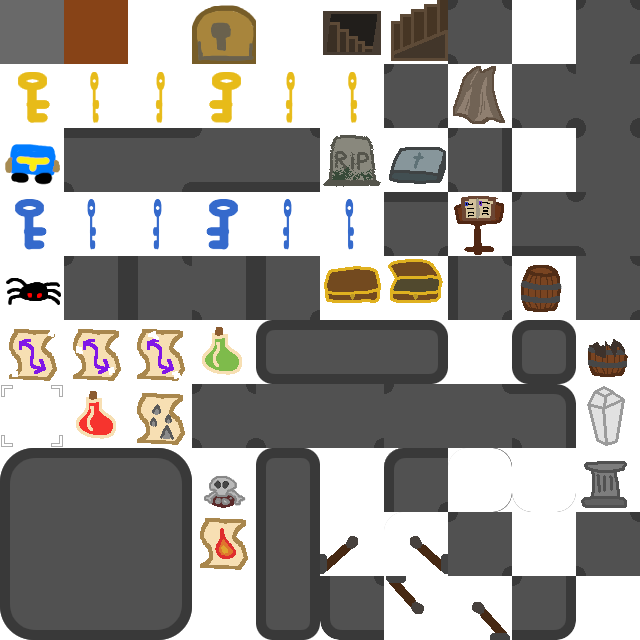
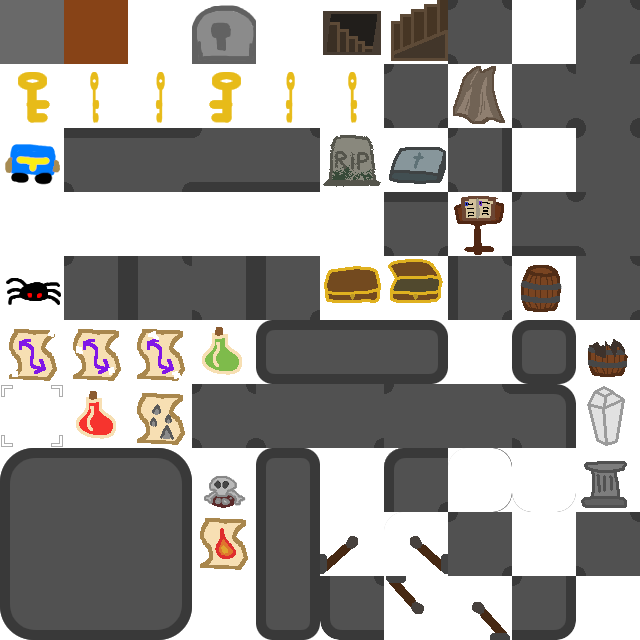
Implemented doors

diff --git a/Items/Inventory.cs b/Items/Inventory.cs
@@ -11,7 +11,7 @@ using Microsoft.Xna.Framework;
 using System.Timers;
 using Myra.Graphics2D;
 using Pandorai.UI;
-using System.Diagnostics;
+using System.Linq;
 
 namespace Pandorai.Items
 {
@@ -379,6 +379,28 @@ namespace Pandorai.Items
             game.Options.AdjustGUI();
         }
 
+        public void RemoveElement(string itemName, int amount = 1)
+		{
+            if (!ContainsItem(itemName)) return;
+
+            var itemEntry = FindItem(itemName);
+
+            itemEntry.Amount -= amount;
+            int index = Items.IndexOf(itemEntry);
+
+            if (itemEntry.Amount <= 0)
+			{
+                ReplaceSlot(new EmptyItem(), 1, index);
+			}
+
+            if (Owner == Owner.game.Player.PossessedCreature)
+            {
+                DisplayAsMainInventory();
+            }
+            Sidekick.DisplaySlots();
+            game.Options.AdjustGUI();
+        }
+
         public void ReplaceSlot(Item item, int amount, int slotIndex)
 		{
             Items[slotIndex].Item = item;
@@ -396,21 +418,22 @@ namespace Pandorai.Items
 
         public bool ContainsItem(Item item)
 		{
-            bool contains = false;
-			foreach (var entry in Items)
-			{
-                if(entry.Item.Id == item.Id)
-				{
-                    contains = true;
-                    break;
-				}
-			}
-            return contains;
+            return Items.Any(x => x.Item.Id == item.Id);
+		}
+
+        public bool ContainsItem(string itemName)
+		{
+            return Items.Any(x => x.Item.Id == itemName);
 		}
 
         public InventoryEntry FindItem(Item item)
 		{
             return Items.Find(i => i.Item.Id == item.Id);
+		}
+
+        public InventoryEntry FindItem(string itemName)
+		{
+            return Items.Find(i => i.Item.Id == itemName);
 		}
 	}
 }

diff --git a/Structures/Behaviours/Door.cs b/Structures/Behaviours/Door.cs
@@ -7,6 +7,7 @@ namespace Pandorai.Structures.Behaviours
 		public int ClosedTexture;
 		public int OpenTexture;
         public string RequiredKey;
+		public float OpacityMultiplier = 0.25f;
 		public bool IsOpened = false;
 
 		public override void SetAttribute(string name, string value)
@@ -47,7 +48,26 @@ namespace Pandorai.Structures.Behaviours
 
         public override void Interact(Creature creature)
         {
-            throw new System.NotImplementedException();
+            if(!IsOpened)
+			{
+				if (creature.Inventory.ContainsItem(RequiredKey))
+				{
+					creature.Inventory.RemoveElement(RequiredKey);
+					Game1.game.Map.RequestTileCollisionFlagChange(Structure.Tile.Index, false);
+					Structure.ColorTint *= OpacityMultiplier;
+					IsOpened = true;
+				}
+				else
+				{
+					// play sound or something
+				}
+			}
+			else
+			{
+				IsOpened = false;
+				Structure.ColorTint *= 1 / OpacityMultiplier;
+				Game1.game.Map.RequestTileCollisionFlagChange(Structure.Tile.Index, true);
+			}
         }
 
         public override void ForceHandler(ForceType force)

diff --git a/Tilemaps/Map.cs b/Tilemaps/Map.cs
@@ -513,7 +513,7 @@ namespace Pandorai.Tilemaps
 
 			game.GraphicsDevice.SetRenderTarget(renderTarget);
 
-			spriteBatch.Begin();
+			spriteBatch.Begin(blendState: BlendState.AlphaBlend);
 
 			for (int y = -tilesRenderedVertically; y < tilesRenderedVertically; y++)
 			{

diff --git a/Structures/Structure.cs b/Structures/Structure.cs
@@ -41,6 +41,7 @@ namespace Pandorai.Structures
 			{
 				Id = Id,
 				Texture = Texture,
+				ColorTint = ColorTint,
 				Behaviours = new List<Behaviour>(Behaviours),
 			};
 			for (int i = 0; i < clone.Behaviours.Count; i++)
